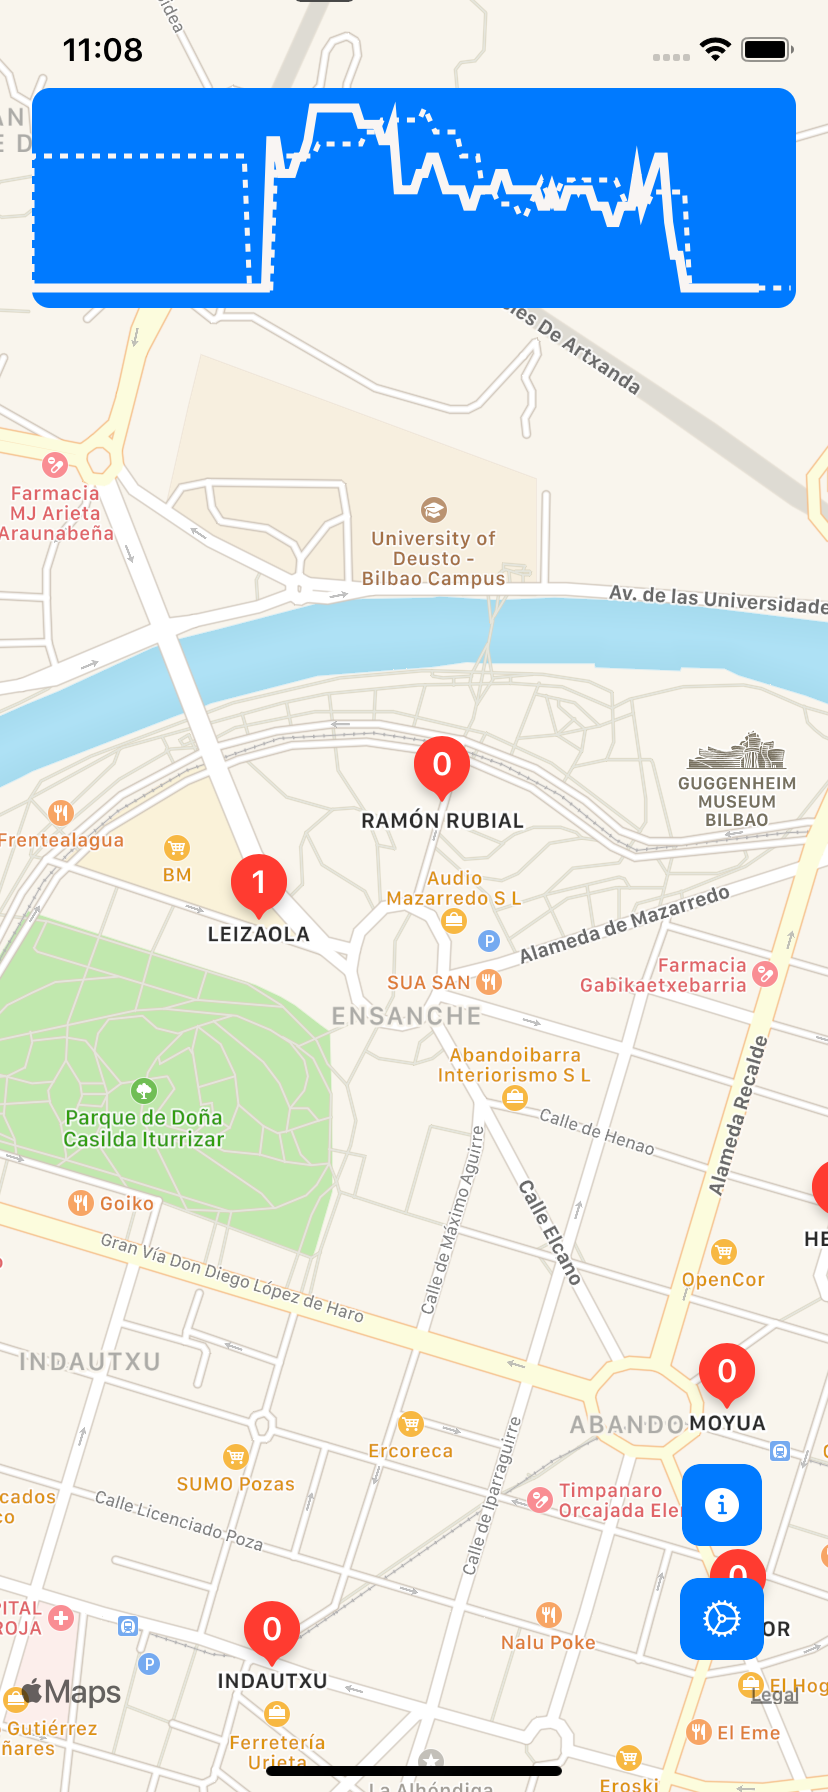
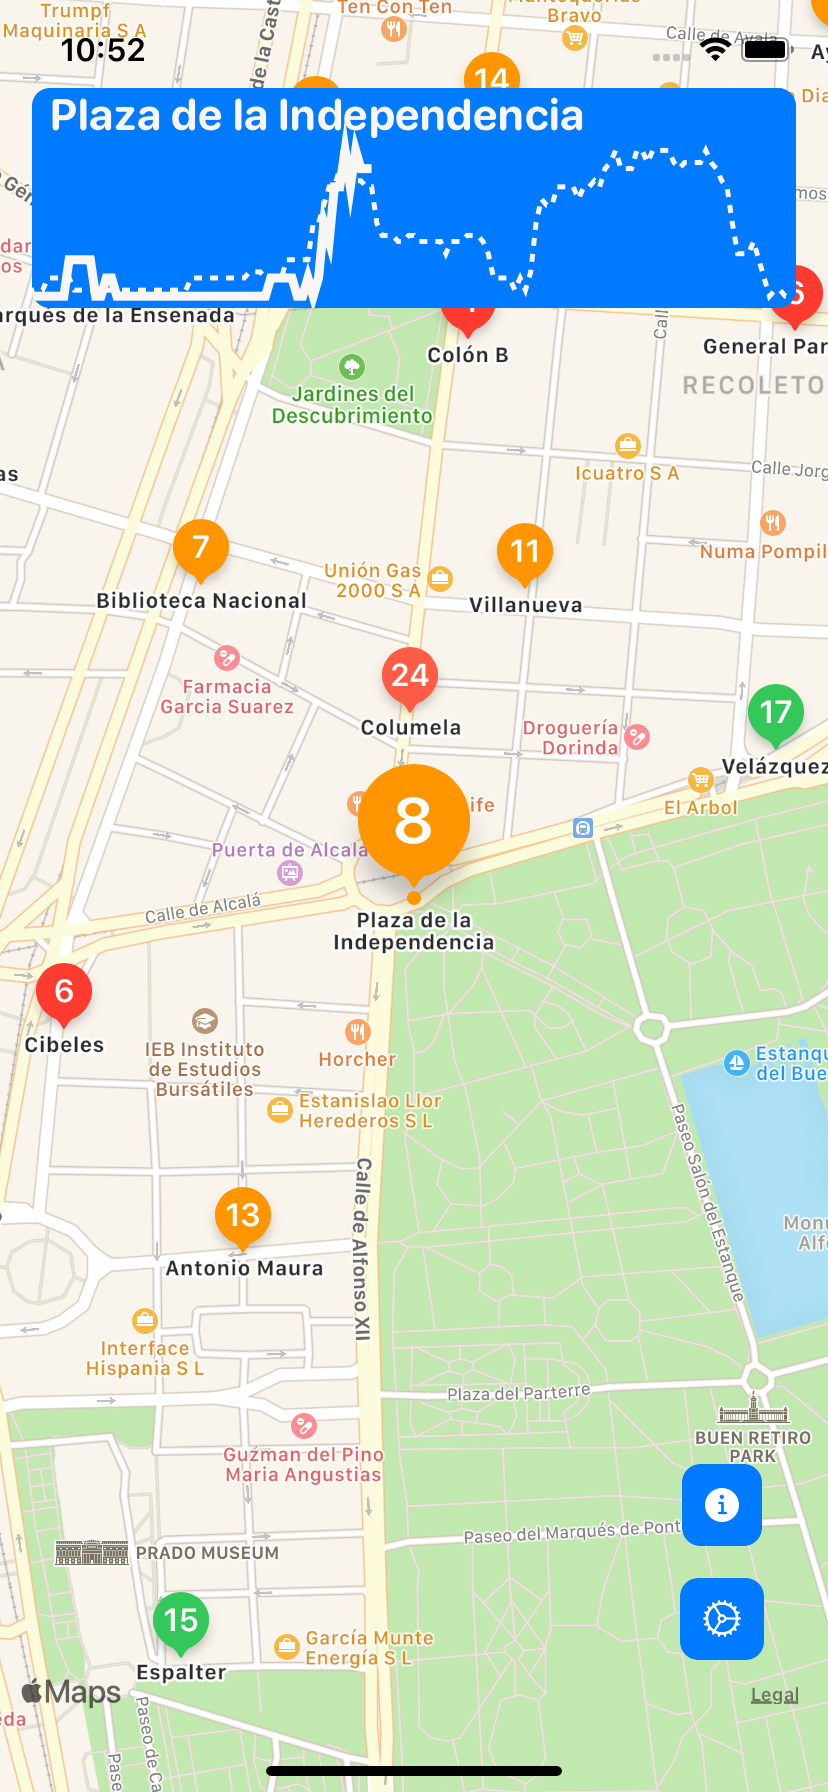
Version 2020.6.2

diff --git a/NeuralBikes/Home/HomeViewModel.swift b/NeuralBikes/Home/HomeViewModel.swift
@@ -25,6 +25,7 @@ protocol HomeViewModelDataManager {
     func getStations(city: String, completion: @escaping (Result<[BikeStation]>) -> Void)
     func hasUnlockedFeatures(completion: @escaping (Result<Bool>) -> Void)
     func getAllDataFromApi(city: String, station: String, completion: @escaping(Result<MyAllAPIResponse>) -> Void)
+    func getPredictionForStation(city: String, type: String, name: String, completion: @escaping (Result<MyAPIResponse>) -> Void)
     func addStationStatistics(for id: String, city: String)
     func isUserLoggedIn(completion: @escaping (Result<LogInResponse>) -> Void)
     func rent(bike number: Int, completion: @escaping(Result<Void>) -> Void)
@@ -220,34 +221,70 @@ class HomeViewModel {
     }
 
     func getAllDataFromApi(city: String, station: String, completion: @escaping(Result<[String: [Int]]>) -> Void) {
+        
+        dataManager.hasUnlockedFeatures(completion: { hasPaid in
+          
+            switch hasPaid {
+            case .success(let paid):
+                if paid {
+                    
+                    self.dataManager.getAllDataFromApi(city: city, station: station, completion: { result in
 
-        dataManager.getAllDataFromApi(city: city, station: station, completion: { result in
+                        switch result {
 
-            switch result {
+                        case .success(let datos):
 
-            case .success(let datos):
+                            let sortedNowKeysAndValues = Array(datos.values.today).sorted(by: { $0.0 < $1.0 })
+                            let sortedPredictionKeysAndValues = Array(datos.values.prediction).sorted(by: { $0.0 < $1.0 })
 
-                let sortedNowKeysAndValues = Array(datos.values.today).sorted(by: { $0.0 < $1.0 })
-                let sortedPredictionKeysAndValues = Array(datos.values.prediction).sorted(by: { $0.0 < $1.0 })
+                            var sortedNow: [Int] = []
+                            var sortedPrediction: [Int] = []
 
-                var sortedNow: [Int] = []
-                var sortedPrediction: [Int] = []
+                            sortedNowKeysAndValues.forEach({ sortedNow.append($0.value )})
+                            sortedPredictionKeysAndValues.forEach({ sortedPrediction.append($0.value )})
 
-                sortedNowKeysAndValues.forEach({ sortedNow.append($0.value )})
-                sortedPredictionKeysAndValues.forEach({ sortedPrediction.append($0.value )})
+                            // Get the remainder values for the prediction
 
-                // Get the remainder values for the prediction
+                            let payload = ["prediction": sortedPrediction, "today": sortedNow]
 
-                let payload = ["prediction": sortedPrediction, "today": sortedNow]
+                            self.delegate?.drawPrediction(data: sortedPrediction, prediction: true)
+                            self.delegate?.drawPrediction(data: sortedNow, prediction: false)
 
-                self.delegate?.drawPrediction(data: sortedPrediction, prediction: true)
-                self.delegate?.drawPrediction(data: sortedNow, prediction: false)
+                            completion(.success(payload))
 
-                completion(.success(payload))
+                        case .error:
+                            break
+                        }
+                    })
+                } else {
+                    self.dataManager.getPredictionForStation(city: city, type: "prediction", name: station, completion: { result in
+                        switch result {
+                            
+                        case .success(let datos):
+                            
+                            let sortedPredictionKeysAndValues = Array(datos.values).sorted(by: { $0.0 < $1.0 })
 
+                            var sortedPrediction: [Int] = []
+
+                            sortedPredictionKeysAndValues.forEach({ sortedPrediction.append($0.value )})
+
+                            // Get the remainder values for the prediction
+
+                            let payload = ["prediction": sortedPrediction]
+
+                            self.delegate?.drawPrediction(data: sortedPrediction, prediction: true)
+
+                            completion(.success(payload))
+
+                        case .error:
+                            break
+                        }
+                    })
+                }
             case .error:
                 break
             }
+            
         })
     }
     

diff --git a/NeuralBikes/Home/GraphView.swift b/NeuralBikes/Home/GraphView.swift
@@ -24,11 +24,40 @@ extension PredictionGraphView: HomeViewControllerGraphViewDelegate {
         actualAvailabilityLayer.removeFromSuperlayer()
         drawingLayer.removeFromSuperlayer()
     }
+    func setStationTitleFor(name: String) {
+
+        stationTitle.removeFromSuperview()
+
+        stationTitle = {
+
+            let label = NBLabel(frame: CGRect(x: 10, y: 5, width: self.frame.width, height: 40.0))
+            label.applyProtocolUIAppearance()
+            label.text = "  " + name
+            label.textColor = UIColor(named: "TextAndGraphColor")
+//            label.frame.size.width = name.width(withConstrainedHeight: UIFont.preferredFont(for: .body, weight: .bold).lineHeight, font: UIFont.preferredFont(for: .body, weight: .bold))
+            label.layer.masksToBounds = false
+            label.font = UIFont.preferredFont(for: .title2, weight: .bold)
+
+            label.sizeToFit()
+
+            return label
+        }()
+
+        addSubview(stationTitle)
+    }
 }
 
 class PredictionGraphView: UIView {
 
     // MARK: Instance Properties
+    var stationTitle: UILabel = {
+        let label = NBLabel()
+        label.applyProtocolUIAppearance()
+        label.font = UIFont.preferredFont(for: .title3, weight: .bold)
+        
+        return label
+    }()
+    var stationTitleText: String?
 
     var viewHeight: CGFloat = -1.0
     var viewWidth: CGFloat = -1.0
@@ -41,6 +70,7 @@ class PredictionGraphView: UIView {
 
     func getPercentageOfDay() -> (CGFloat, Int) {
 
+        
         let date = Date()
         let calendar = Calendar.current
         let minute = Int(calendar.component(.minute, from: date) / 10)
@@ -76,7 +106,7 @@ class PredictionGraphView: UIView {
 
     func drawLine(values: [Int], isPrediction: Bool) {
 
-        viewHeight = (self.frame.size.height) - 20.0 // - stationTitle.frame.size.height * 1.4)
+        viewHeight = (self.frame.size.height - stationTitle.frame.size.height * 1.4)
         viewWidth = self.frame.width * CGFloat(values.count) / CGFloat(Constants.lengthOfTheDay)
 
         if values.count > 0 {
@@ -89,7 +119,8 @@ class PredictionGraphView: UIView {
             heightProportion = 0.0
 
             // Mover el punto inicial al origen de X y a la altura que corresponde al valor obtenido.
-            let initialCoordinates = CGPoint(x: 0.0, y: viewHeight - viewHeight * heightProportion)
+            let initialCoordinates = CGPoint(x: 0.0, y: viewHeight - viewHeight * heightProportion + stationTitle.frame.size.height * 0.8)
+
 
             path.move(to: initialCoordinates)
 
@@ -98,7 +129,7 @@ class PredictionGraphView: UIView {
                 heightProportion = CGFloat(values[element]) / CGFloat(values.max()!)
 
                 let xPosition = CGFloat(element) * viewWidth / CGFloat(values.count)
-                let yPosition = viewHeight - viewHeight * heightProportion
+                let yPosition = viewHeight - viewHeight * heightProportion + stationTitle.frame.size.height * 0.8
 
                 nextPoint = CGPoint(x: xPosition, y: yPosition)
                 path.addLine(to: nextPoint)
@@ -157,5 +188,6 @@ class PredictionGraphView: UIView {
 
         actualAvailabilityLayer.removeFromSuperlayer()
         drawingLayer.removeFromSuperlayer()
+        stationTitle.text = ""
     }
 }

diff --git a/NeuralBikes/RestorePurchases/RestorePurchasesViewController.swift b/NeuralBikes/RestorePurchases/RestorePurchasesViewController.swift
@@ -137,12 +137,12 @@ class RestorePurchasesViewController: UIViewController {
 
     lazy var purchaseStatusLabel: UILabel = {
 
-        let label = UILabel()
-        label.font = Constants.labelFont
+        let label = NBLabel()
+        label.applyProtocolUIAppearance()
+        label.font = UIFont.preferredFont(for: .body, weight: .bold)
         label.text = "HAS_NOT_PURCHASED".localize(file: "RestorePurchases")
         label.translatesAutoresizingMaskIntoConstraints = false
         label.numberOfLines = 0
-        label.textAlignment = .left
 
         return label
     }()
@@ -188,8 +188,10 @@ class RestorePurchasesViewController: UIViewController {
         view.addSubview(scrollView)
 
         NSLayoutConstraint.activate([
-            unlockFeaturesLabel.widthAnchor.constraint(equalToConstant: (unlockFeaturesLabel.titleLabel?.text?.width(withConstrainedHeight: 19.0, font: UIFont.systemFont(ofSize: UIFont.buttonFontSize, weight: .bold)))! + 20.0),
-            restorePurchasesButton.widthAnchor.constraint(equalToConstant: (restorePurchasesButton.titleLabel?.text?.width(withConstrainedHeight: 19.0, font: UIFont.systemFont(ofSize: UIFont.buttonFontSize, weight: .bold)))! + 20.0)
+            unlockFeaturesLabel.leadingAnchor.constraint(equalTo: scrollView.leadingAnchor, constant: Constants.spacing),
+            unlockFeaturesLabel.trailingAnchor.constraint(equalTo: scrollView.trailingAnchor, constant: -Constants.spacing),
+            restorePurchasesButton.leadingAnchor.constraint(equalTo: scrollView.leadingAnchor, constant: Constants.spacing),
+            restorePurchasesButton.trailingAnchor.constraint(equalTo: scrollView.trailingAnchor, constant: -Constants.spacing)
         ])
 
         NSLayoutConstraint.activate([
@@ -218,8 +220,6 @@ class RestorePurchasesViewController: UIViewController {
         ])
 
         NSLayoutConstraint.activate([
-            titleLabel.leadingAnchor.constraint(equalTo: scrollView.leadingAnchor, constant: Constants.spacing),
-            titleLabel.trailingAnchor.constraint(equalTo: scrollView.trailingAnchor, constant: -Constants.spacing),
             purchaseStatusLabel.leadingAnchor.constraint(equalTo: scrollView.leadingAnchor, constant: Constants.spacing),
             purchaseStatusLabel.trailingAnchor.constraint(equalTo: scrollView.trailingAnchor, constant: Constants.spacing),
             whyYouShouldGiveMeMoneyTextView.leadingAnchor.constraint(equalTo: scrollView.leadingAnchor, constant: Constants.spacing),

diff --git a/NeuralBikes/Home/HomeViewController.swift b/NeuralBikes/Home/HomeViewController.swift
@@ -14,6 +14,7 @@ import MapKit
 
 protocol HomeViewControllerGraphViewDelegate: class {
     func hideGraphView()
+    func setStationTitleFor(name: String)
 }
 
 class HomeViewController: UIViewController {
@@ -345,6 +346,7 @@ class HomeViewController: UIViewController {
             var apiQueryStationValue: String?
 
             apiQueryStationValue = annotationFromPin.id
+            graphViewDelegate?.setStationTitleFor(name: annotationFromPin.stationName)
 
             guard apiQueryStationValue != nil else { return }
 
@@ -396,6 +398,8 @@ class HomeViewController: UIViewController {
             var apiQueryStationValue: String?
 
             apiQueryStationValue = annotationFromPin.id
+            
+            graphViewDelegate?.setStationTitleFor(name: annotationFromPin.stationName)
 
             guard apiQueryStationValue != nil else { return }
 
@@ -476,13 +480,10 @@ class HomeViewController: UIViewController {
             ])
             
             NSLayoutConstraint.activate([
-                // Center horizontally
                 statisticsAndGraphViewStackView.centerXAnchor.constraint(equalTo: view.safeAreaLayoutGuide.centerXAnchor),
                 statisticsAndGraphViewStackView.widthAnchor.constraint(equalToConstant: 450),
                 statisticsAndGraphViewStackView.topAnchor.constraint(equalTo: view.safeAreaLayoutGuide.topAnchor, constant: Constants.spacing)
-
             ])
-
         }
         
         mapView.frame = self.view.bounds
@@ -776,6 +777,8 @@ extension HomeViewController: MKMapViewDelegate {
         var apiQueryStationValue: String?
 
         apiQueryStationValue = annotationFromPin.stationInformation.id
+        
+        graphViewDelegate?.setStationTitleFor(name: annotationFromPin.stationInformation.stationName)
 
         guard apiQueryStationValue != nil else { return }
 

diff --git a/NeuralBikes/LocationServices/LocationServices.swift b/NeuralBikes/LocationServices/LocationServices.swift
@@ -88,11 +88,11 @@ class LocationServices: NSObject, CLLocationManagerDelegate {
 
         switch UITestingHelper.sharedInstance.isUITesting() {
         case true:
-            return CLLocationCoordinate2D(latitude: CLLocationDegrees(availableCities["Bilbao"]!.latitude), longitude: CLLocationDegrees(availableCities["Bilbao"]!.longitude))
+            return CLLocationCoordinate2D(latitude: CLLocationDegrees(availableCities["Madrid"]!.latitude), longitude: CLLocationDegrees(availableCities["Madrid"]!.longitude))
         case false:
 
             #if targetEnvironment(simulator)
-                return CLLocationCoordinate2D(latitude: CLLocationDegrees(availableCities["Bilbao"]!.latitude), longitude: CLLocationDegrees(availableCities["Bilbao"]!.longitude))
+                return CLLocationCoordinate2D(latitude: CLLocationDegrees(availableCities["Madrid"]!.latitude), longitude: CLLocationDegrees(availableCities["Madrid"]!.longitude))
             #endif
 
             return locationManager?.location?.coordinate

diff --git a/NeuralBikes/Extensions/UIFont.swift b/NeuralBikes/Extensions/UIFont.swift
@@ -13,7 +13,20 @@ extension UIFont {
     static func preferredFont(for style: TextStyle, weight: Weight) -> UIFont {
         let metrics = UIFontMetrics(forTextStyle: style)
         let desc = UIFontDescriptor.preferredFontDescriptor(withTextStyle: style)
-        let font = UIFont.systemFont(ofSize: desc.pointSize, weight: weight)
+//        let font = UIFont.systemFont(ofSize: desc.pointSize, weight: weight)
+        
+        // Here we get San Francisco with the desired weight
+        let systemFont = UIFont.systemFont(ofSize: desc.pointSize, weight: weight)
+
+        // Will be SF Compact or standard SF in case of failure.
+        let font: UIFont
+
+        if let descriptor = systemFont.fontDescriptor.withDesign(.rounded) {
+            font = UIFont(descriptor: descriptor, size: desc.pointSize)
+        } else {
+            font = systemFont
+        }
+        
         return metrics.scaledFont(for: font)
     }
 }

diff --git a/NeuralBikes/Protocols/NBButton.swift b/NeuralBikes/Protocols/NBButton.swift
@@ -21,12 +21,12 @@ class NBButton: UIButton, NBButtonable {
     func applyProtocolUIAppearance() {
         backgroundColor = .systemBlue
         layer.cornerRadius = Constants.cornerRadius
-        titleLabel?.font = Constants.buttonFont
         isUserInteractionEnabled = true
         isEnabled = true
         clipsToBounds = true
         titleLabel?.adjustsFontForContentSizeCategory = true
-        titleLabel?.font = UIFont.preferredFont(forTextStyle: .body)
+        titleLabel?.font = UIFont.preferredFont(for: .body, weight: .bold)
+        
         setTitleColor(UIColor.systemGray4, for: .disabled)
         setTitleColor(.darkGray, for: .highlighted)
         setTitleShadowColor(.darkGray, for: .highlighted)

diff --git a/NeuralBikes/Cities.swift b/NeuralBikes/Cities.swift
@@ -31,8 +31,8 @@ var availableCities: [String: City] = [
                    apiUrl: "https://nextbike.net/maps/nextbike-official.json?city=532", allowsLogIn: false),
     "Madrid": City(apiName: "madrid",
                    formalName: "Madrid",
-                   latitude: 40.416775,
-                   longitude: -3.703790,
+                   latitude: 40.419953,
+                   longitude: -3.688479,
                    apiUrl: "https://openapi.emtmadrid.es/v1/transport/bicimad/stations/", allowsLogIn: false)
 ]
 

diff --git a/NeuralBikes/AppCoordinator.swift b/NeuralBikes/AppCoordinator.swift
@@ -42,8 +42,8 @@ class AppCoordinator: Coordinator {
     override func start() {
 
         if UITestingHelper.sharedInstance.isUITesting() {
-            currentCity = availableCities["Bilbao"]
-            localDataManager.saveCurrentCity(apiCityName: availableCities["Bilbao"]!, completion: { _ in })
+            currentCity = availableCities["Madrid"]
+            localDataManager.saveCurrentCity(apiCityName: availableCities["Madrid"]!, completion: { _ in })
             showHomeViewController()
 
         } else {

diff --git a/NeuralBikes/DataManager/DataManager.swift b/NeuralBikes/DataManager/DataManager.swift
@@ -193,6 +193,9 @@ extension DataManager: InsightsViewModelDataManager {
     }
 
     func getPredictionForStation(city: String, type: String, name: String, completion: @escaping (Result<MyAPIResponse>) -> Void) {
+        
+        localDataManager.addStationStatistics(for: name, city: city)
+        
         remoteDataManager.getPredictionForStation(city: city, type: type, name: name, completion: { res in
             completion(res)
         })

diff --git a/NeuralBikes/Settings/SettingsViewControler.swift b/NeuralBikes/Settings/SettingsViewControler.swift
@@ -46,7 +46,7 @@ extension SettingsViewController: UIPickerViewDataSource, UIPickerViewDelegate {
             label = UILabel()
         }
         
-        label!.font = UIFont.preferredFont(for: .body, weight: .regular)
+        label!.font = UIFont.preferredFont(for: .body, weight: .bold)
         label!.textAlignment = .center
         label!.text = citiesList[row]
 
